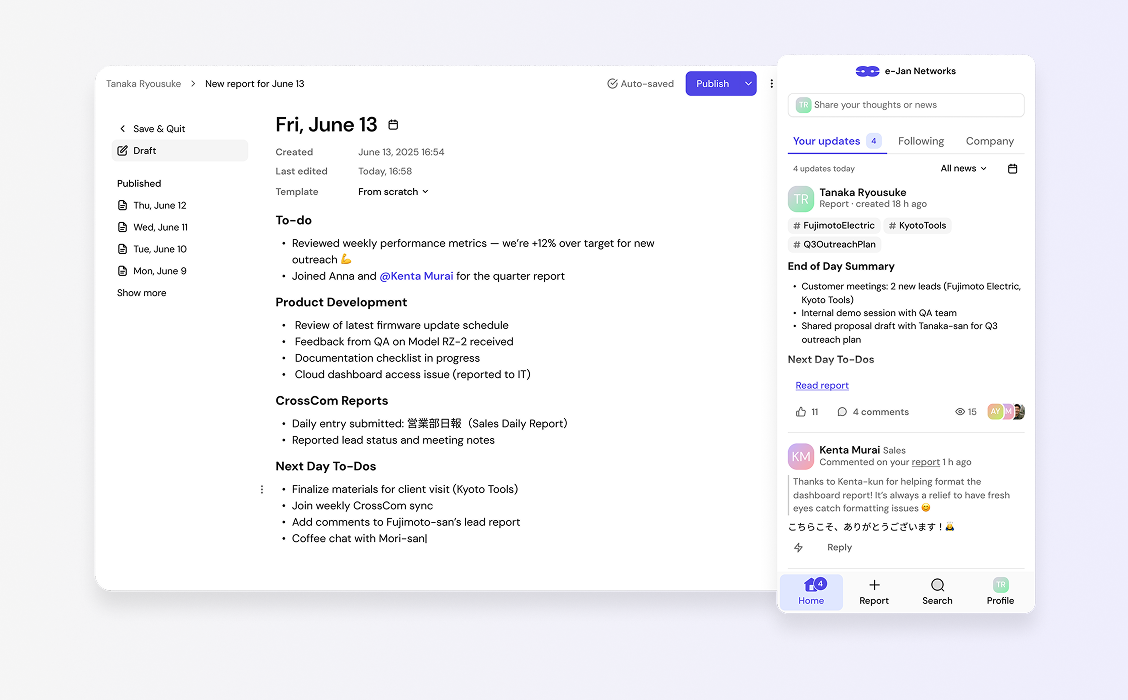
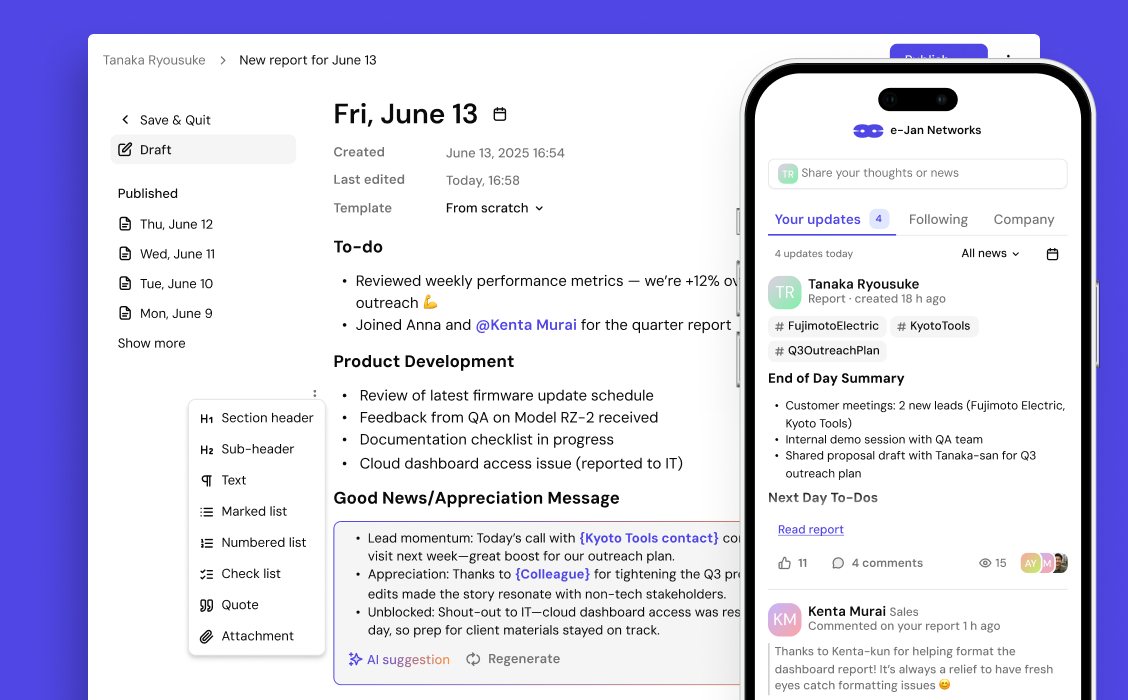
Refresh CrossCom and iHairium portfolio cards

Changed region(s): [[0.0, 0.0, 1.0, 1.0], [0.2482, 0.15, 0.4654, 0.21], [0.1551, 0.9, 0.2482, 0.93]]

diff --git a/index.html b/index.html
@@ -133,13 +133,12 @@
             <div class="case-card__visual case-card__visual--crosscom">
               <img
                 src="assets/projects/crosscom-thumbnail@2x.png"
-                alt="CrossCom product screens showing an event page and company feed"
+                alt="CrossCom product screens showing a daily report editor and team feedback feed"
               />
             </div>
             <div class="case-card__copy">
               <h3>
-                CrossCom — Modernizing an internal company network: from research on a legacy
-                product to detailed design
+                CrossCom — Redesigning daily reporting and team feedback
               </h3>
               <p>Product case · UX research · Enterprise · Web</p>
             </div>
@@ -153,8 +152,7 @@
               </div>
               <div class="case-card__copy">
                 <h3>
-                  iHairium — Reducing friction in a hair-health assessment and redesigning the
-                  path from first result to paid care.
+                  iHairium — Simplifying hair-health assessment and the journey from first result to paid care
                 </h3>
                 <p>Product case · Healthtech · Monetization · Mobile</p>
               </div>
